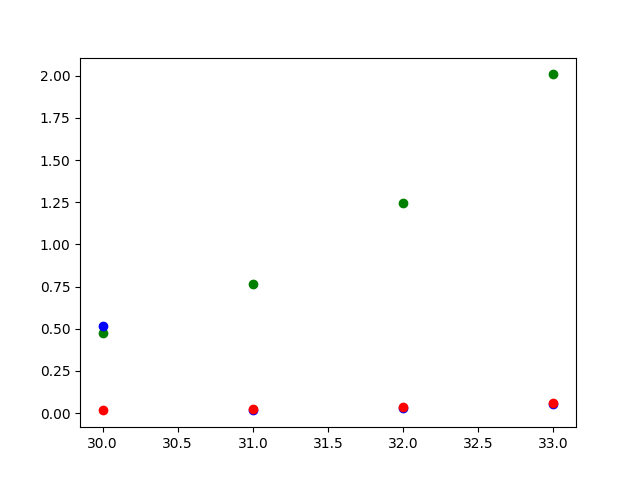
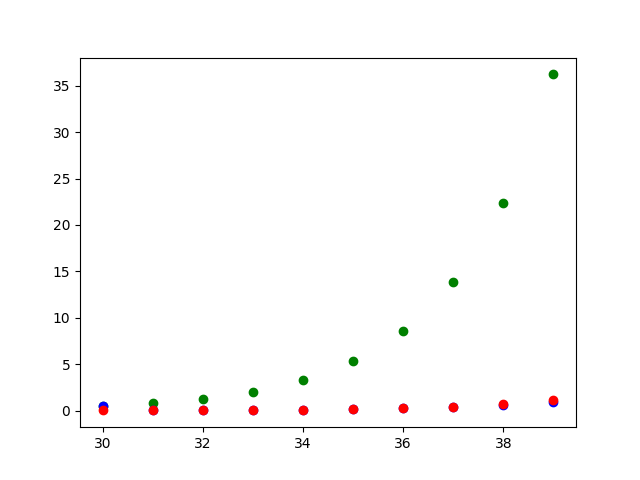
21.2

diff --git a/MA4_files/fibs.py b/MA4_files/fibs.py
@@ -17,7 +17,7 @@ def fib_numba_py(n):
     else:
         return(fib_numba_py(n-1) + fib_numba_py(n-2))
 
-n = range(30, 34)
+n = range(30, 40)
 xp = []
 xn = []
 xf = []
@@ -61,12 +61,12 @@ def main():
     print()
 
     start = pc()
-    fib_numba_py(30)
+    fib_numba_py(47)
     end = pc()
     print(f'Time for numba 47, {end-start}')
     print()
 
-    f = Integer(30)
+    f = Integer(47)
     start = pc()
     f.fib()
     end = pc()
